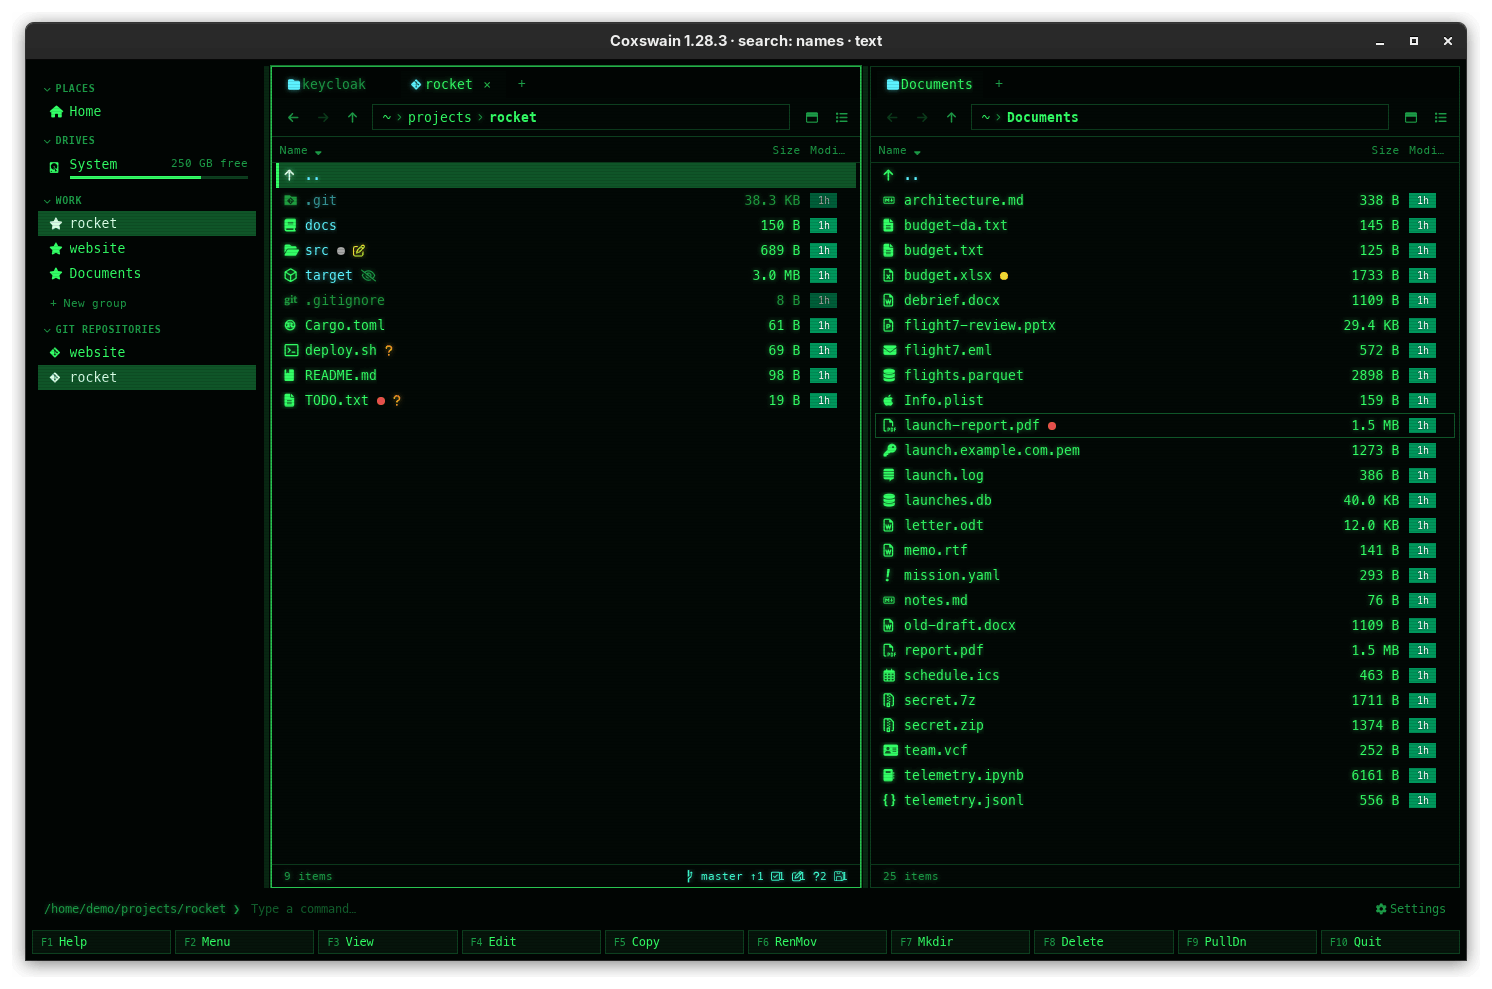
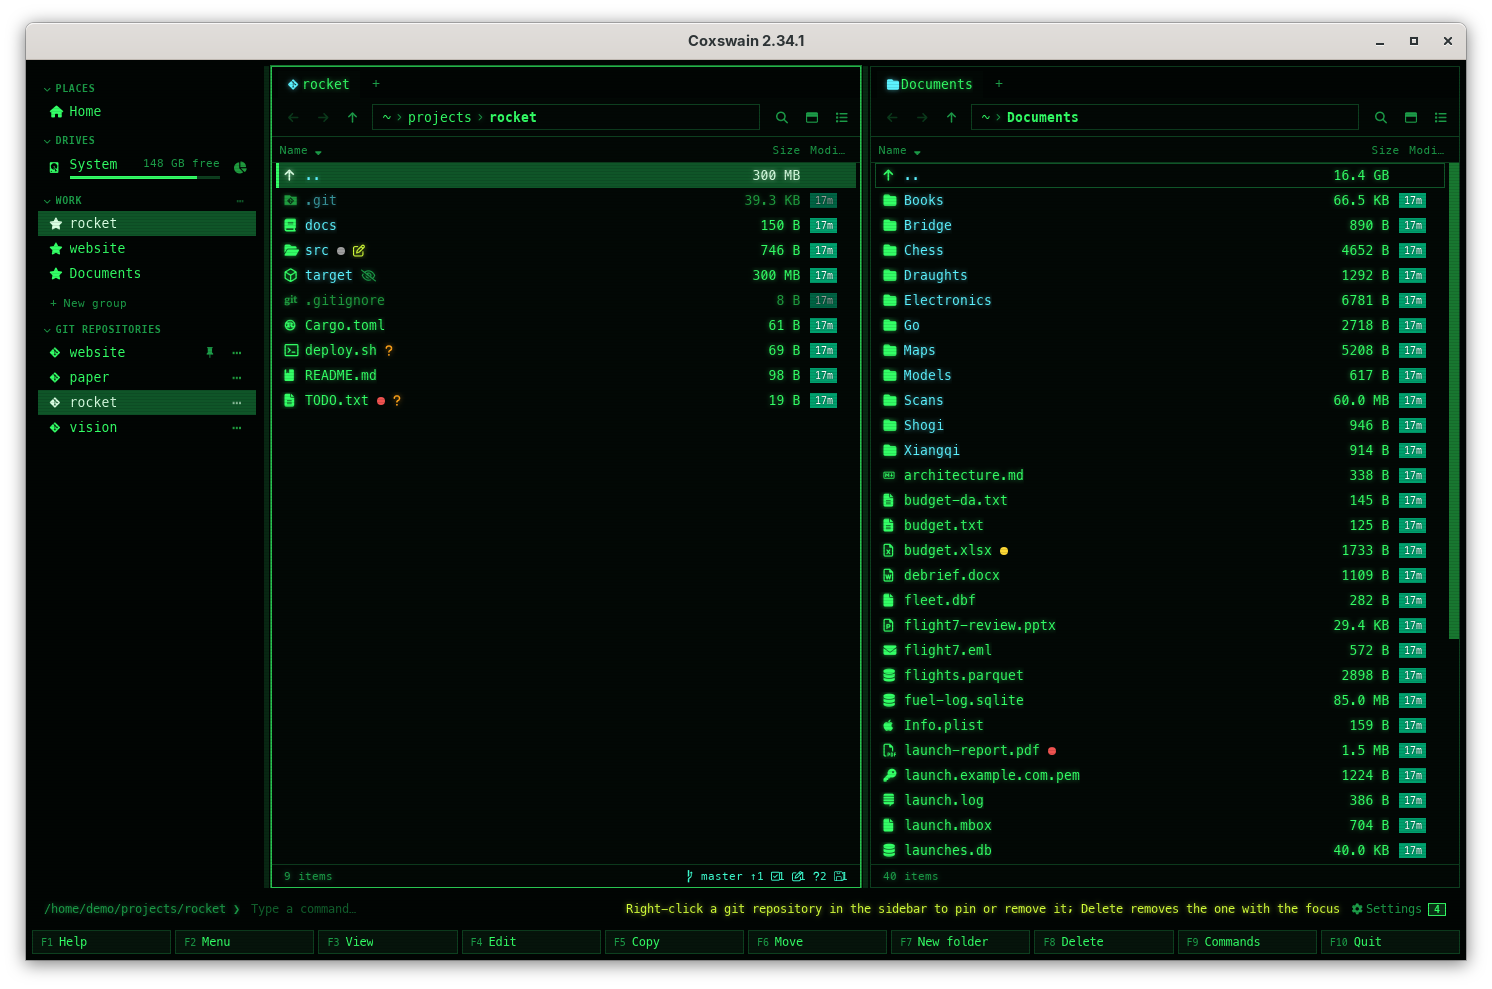
Sidebar pictures: repositories by name with a pin, and a repository's menu

diff --git a/docs/organise/sidebar.md b/docs/organise/sidebar.md
@@ -6,7 +6,7 @@ The sidebar is the column at the left of the desktop app's window (at the right 
 Arabic). It holds your usual folders, your disks with their free space, your
 [cloud accounts](clouds.md), your [favourites](favourites.md) and the git repositories you opened last (by name, with the ones you pinned), each one click away.
 
-![The sidebar of the desktop app: PLACES with Home; DRIVES with System, 250 GB free and a green bar of the space used; a favourites group WORK with rocket, website and Documents; + New group; GIT REPOSITORIES with rocket and website. rocket is highlighted in both lists](../screenshots/gui-details.png)
+![The sidebar of the desktop app: PLACES with Home; DRIVES with System, its free space and a green bar of the space used; a favourites group WORK with rocket, website and Documents; + New group; GIT REPOSITORIES with website (a pin at the end of its row), then paper, rocket and vision by name, each with a faint ⋯. rocket is highlighted in both lists; the status line says how to pin or remove a repository](../screenshots/gui-details.png)
 *The sidebar in the Cyber theme. The entries for the folder you are in are highlighted.*
 
 ![The same window in Hebrew: the sidebar is at the right, its headers and entries right-aligned](../screenshots/gui-lang-he.png)
@@ -79,6 +79,9 @@ the last eight you visited; an older one drops out when a ninth comes, unless it
 - **Remove.** *Remove from the list* in that menu, or **Delete** on the row when it has the
   focus, takes it out at once, pinned or not. Nothing on disk is touched. Going into the
   repository again brings it back.
+
+![The desktop app with the menu of the repository rocket open over the panes: ROCKET, a filter field, then Open, Pin: keep in the list, and Remove from the list with the key Delete beside it](../screenshots/gui-sidebar-repos-menu.png)
+*A right-click on* rocket *under Git repositories.*
 
 The first few times the list is there, the status line says *Right-click a git repository in
 the sidebar to pin or remove it; Delete removes the one with the focus*.

diff --git a/docs/organise/README.md b/docs/organise/README.md
@@ -9,7 +9,7 @@ Coxswain's own state file, `state.json` ([Where things are kept](../reference/wh
 The terminal app has none of them but the clouds, which it lists under **Alt+F1** and **Alt+F2**:
 the others' keys there say which app has them.
 
-![The desktop app with the sidebar at the left: Places with Home, Drives with System and 250 GB free, a favourites group named WORK with rocket, website and Documents, and Git repositories with rocket and website. In the panels, a grey tag dot after src, a red one after TODO.txt, a yellow one after budget.xlsx and a red one after launch-report.pdf](../screenshots/gui-details.png)
+![The desktop app with the sidebar at the left: Places with Home, Drives with System and its free space, a favourites group named WORK with rocket, website and Documents, and Git repositories with website pinned, then paper, rocket and vision. In the panels, a grey tag dot after src, a red one after TODO.txt, a yellow one after budget.xlsx and a red one after launch-report.pdf](../screenshots/gui-details.png)
 *The sidebar, a favourites group and colour tags in the details view (Cyber theme).*
 
 | Page | What it covers |
